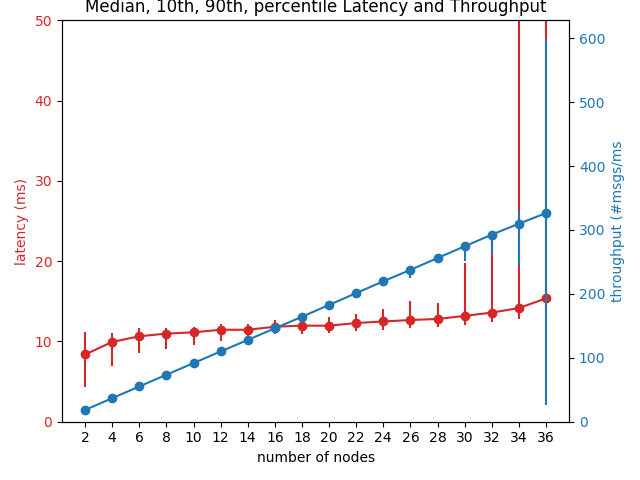
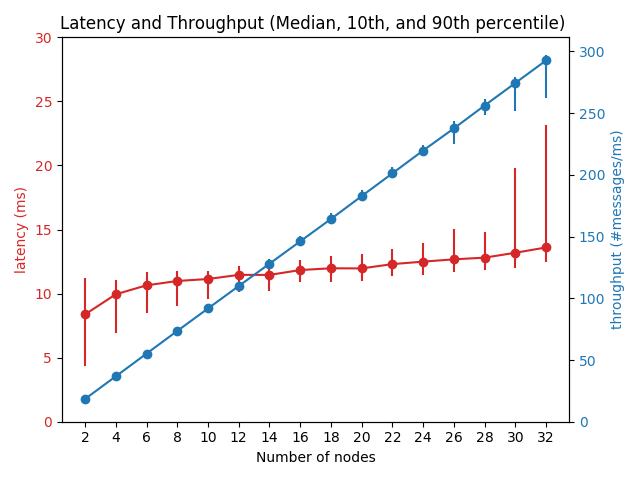
Final plots for node scaleup

diff --git a/analysis/plot_scaling_latency_throughput.py b/analysis/plot_scaling_latency_throughput.py
@@ -18,7 +18,7 @@ def plot_scaleup_node_rate(dirname, prefix, rate_multiplier, ratio_ab, heartbeat
     
     output_name = '%s_rate-%d_ab-%d_heart-%d_%s' % (prefix, rate_multiplier,
                                                     ratio_ab, heartbeat_rate, optimizer)
-    common_plot_scaleup(dirname, dirnames, a_nodes_numbers, 'number of nodes', output_name)
+    common_plot_scaleup(dirname, dirnames, a_nodes_numbers, 'Number of nodes', output_name)
 
 def plot_scaleup_rate(dirname, prefix, rate_multipliers, ratio_ab, heartbeat_rate, a_nodes_number, optimizer):
 
@@ -27,7 +27,7 @@ def plot_scaleup_rate(dirname, prefix, rate_multipliers, ratio_ab, heartbeat_rat
 
     output_name = '%s_ab-%d_heart-%d_as-%d_%s' % (prefix, ratio_ab, heartbeat_rate, a_nodes_number, optimizer)
     
-    common_plot_scaleup(dirname, dirnames, rate_multipliers, 'rate multiplier', output_name)
+    common_plot_scaleup(dirname, dirnames, rate_multipliers, 'Rate Multiplier', output_name)
 
     
 def common_plot_scaleup(dirname, dirnames, xticks, xlabel, output_name):
@@ -70,7 +70,7 @@ def common_plot_scaleup(dirname, dirnames, xticks, xlabel, output_name):
     # ax1.plot(inds, ninety_latencies, '-o', label='90th percentile latency', color=color)
     ax1.tick_params(axis='y', labelcolor=color)
     # ax1.set_ylim(top=max(ninety_latencies) * 1.1)
-    # ax1.set_ylim(top=50)
+    # ax1.set_ylim(top=200)
     # ax1.set_yscale("log")
     ax1.set_ylim(bottom=0)
     
@@ -78,7 +78,7 @@ def common_plot_scaleup(dirname, dirnames, xticks, xlabel, output_name):
     ## Plot all throughputs
     ax2 = ax1.twinx()  # instantiate a second axes that shares the same x-axis
     color = 'tab:blue'
-    ax2.set_ylabel('throughput (#msgs/ms', color=color)  # we already handled the x-label with ax1
+    ax2.set_ylabel('throughput (#messages/ms)', color=color)  # we already handled the x-label with ax1
     ## Errorbar alternative
     ax2.errorbar(inds, avg_throughputs, [ten_throughputs_diff, ninety_throughputs_diff],
                  linestyle='-', marker='o', label='mean throughput', color=color)
@@ -92,7 +92,8 @@ def common_plot_scaleup(dirname, dirnames, xticks, xlabel, output_name):
     fig.tight_layout()  # otherwise the right y-label is slightly clipped
     # plt.legend(loc='best')
     plt.xticks(inds, xticks)
-    plt.title('Median, 10th, 90th, percentile Latency and Throughput')
+    plt.title('Latency and Throughput (Median, 10th, and 90th percentile) ')
+    plt.tight_layout()
     plt.savefig(os.path.join('plots', output_name + ".png"))
     plt.show()
     

diff --git a/scenarios/generate_exec_config_ab_example.py b/scenarios/generate_exec_config_ab_example.py
@@ -131,7 +131,11 @@ rate_multipliers = [15]
 ratios_ab = [1000]
 heartbeat_rates = [10]
 # a_nodes_numbers = [2, 5, 10, 20, 30]
-a_nodes_numbers = range(2, 40, 2)
+## Note:
+## Ideally we want to plot up to 38 (for rate multiplier 15), but I cannot get the server to behave and give us
+## steady results for those, so I will give results up to 32
+# a_nodes_numbers = range(2, 40, 2)
+a_nodes_numbers = range(2, 33, 2)
 optimizers = ["optimizer_greedy"]
 
 # run_configurations(rate_multipliers, ratios_ab, heartbeat_rates, a_nodes_numbers, optimizers)
